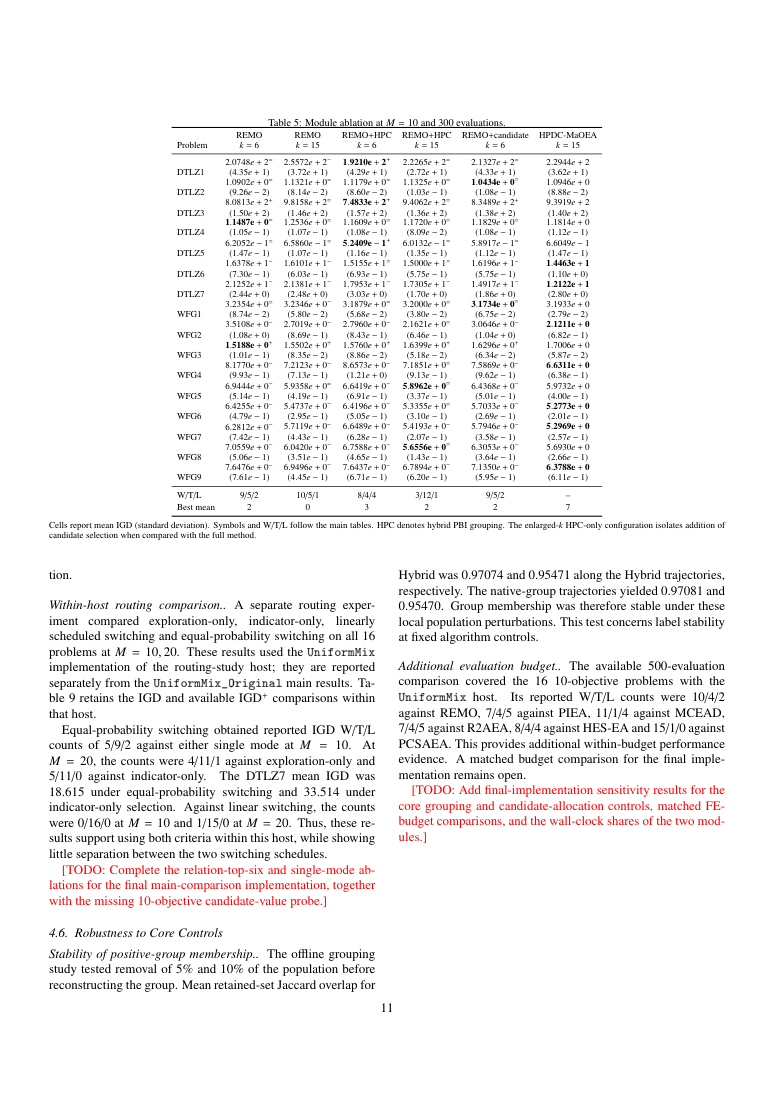
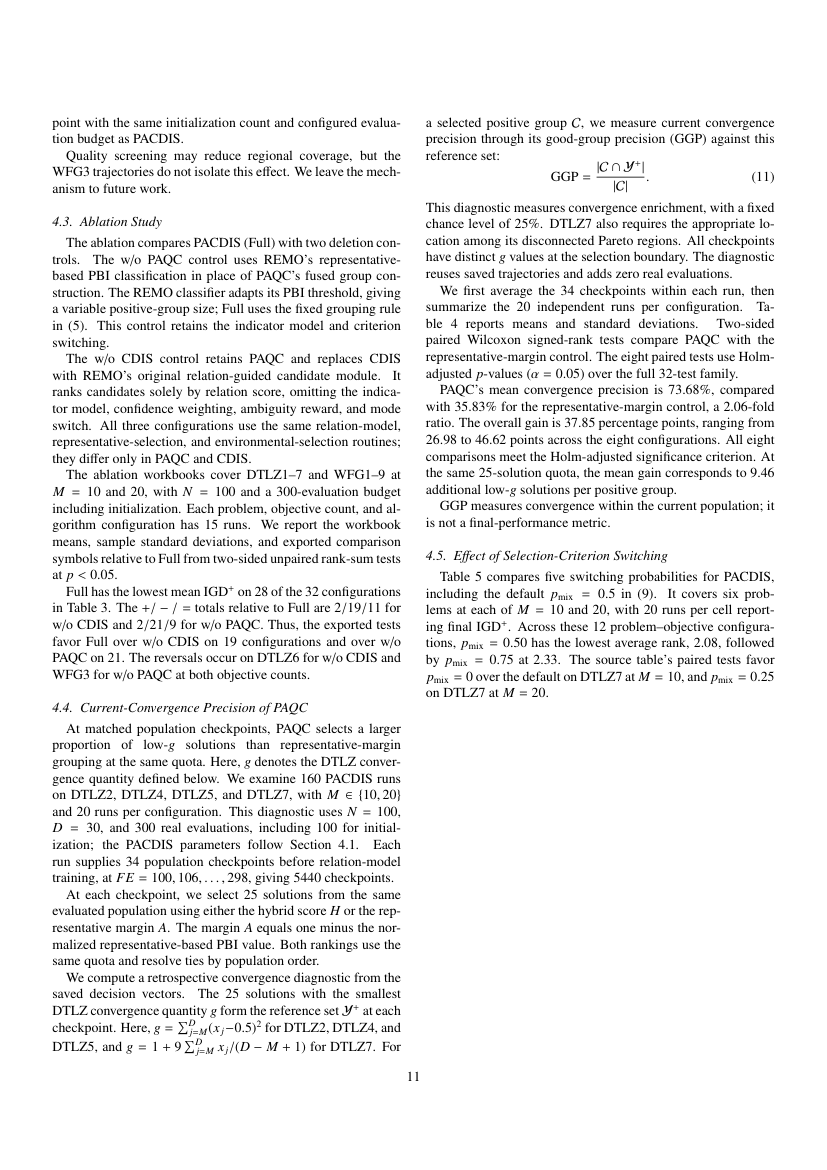
论文排版：结论移至第11页右栏下方，消除12/13页浮动页留白
- HPDC-MaOEA.tex：删除 Conclusion 前的 \clearpage 与 @colht/vsize 恢复 hack；
  结论正文改为紧接 4.5 节排版，填满第 11 页右栏，表 3-5 仍浮动于第 12-13 页顶部
- 同一提交包含工作区已有的第 5 节结论重写（英文 tex + 中文对照稿此前已同步，
  本次一并入库）
- HPDC-MaOEA_中文版.md：仅刷新头部英文 tex SHA-256 指纹（内容无改动）
- 重新编译两遍通过：14 页，0 Overfull，无未定义引用；
  .figure_work/page_10-14.png 为重新渲染的页面预览

Changed region(s): [[0.062, 0.0932, 0.9612, 0.9005]]

diff --git a/论文写作/HPDC-MaOEA.tex b/论文写作/HPDC-MaOEA.tex
@@ -1060,38 +1060,26 @@ $p_{\mathrm{mix}}=0.75$ at 2.33. The source table's paired tests favor
 $p_{\mathrm{mix}}=0$ over the default on DTLZ7 at $M=10$, and
 $p_{\mathrm{mix}}=0.25$ on DTLZ7 at $M=20$.
 
-% Keep the experimental tables before the conclusion and references.
-\clearpage
-% Restore full column height after flushing the double-column table queue.
-\makeatletter
-\global\@colht\textheight
-\global\@colroom\textheight
-\global\vsize\textheight
-\makeatother
+% No \clearpage here: the conclusion flows directly after the pmix text so
+% that page 11 is filled, and the queued double-column tables (Tables 3--5)
+% are placed at the tops of the following pages before the references.
 \section{Conclusion}
 \label{sec:conclusion}
-PACDIS modifies supervision construction and expensive-evaluation allocation
-in relation-based surrogate-assisted optimization. PAQC combines
-representative-based grouping with directional quality information obtained
-from the current nondominated set to construct positive training groups.
-CDIS allocates expensive evaluations through ambiguity-oriented and
-indicator-oriented candidate-selection criteria after relation-quality
-screening. The Full-referenced ablation gives problem-dependent outcomes,
-with reversals on DTLZ6 and WFG3 (Section~\ref{sec:exp:ablation}).
-PAQC and CDIS address complementary interfaces by design.
-The matched group analysis shows that PAQC raises mean current convergence
-precision from 35.83\% to 73.68\% relative to equal-quota
-representative-margin grouping on the four tested DTLZ problems
-(Section~\ref{sec:exp:ggp}).
+We proposed PACDIS, a surrogate-assisted evolutionary algorithm for expensive
+many-objective optimization. PACDIS introduces PBI-assisted quality classification
+(PAQC) and criterion-diversified infill selection (CDIS) into REMO's relation-learning
+framework. PAQC combines representative-based binary labels with continuous PBI
+quality scores derived from the current nondominated solutions to form training
+groups for relation learning. After screening candidates by relation quality,
+CDIS uses ambiguity-oriented or indicator-oriented ranking to select solutions
+for expensive evaluation. Experiments on DTLZ and WFG test suites show that
+PACDIS achieves competitive optimization performance under a limited evaluation
+budget. The ablation results further show that the full algorithm outperforms
+variants that remove PAQC or CDIS on most test configurations.
 
-The WFG3 results limit the scope of these findings: PACDIS lowers its mean
-IGD$^+$ yet finishes with a higher mean than REMO and PIEA in the
-ten-objective comparison. The group analysis measures current convergence precision on
-four DTLZ problems; it does not establish Pareto-front coverage or explain
-the WFG3 loss. Future work should test the coverage and screening
-hypothesis in Section~\ref{sec:exp:comparison} before changing either module.
-Such tests would distinguish losses during candidate screening from
-insufficient coverage in the candidate pool itself.
+PACDIS still has room for improvement on some test problems. Future work will
+examine how candidate generation and screening affect Pareto front coverage and
+explore infill selection strategies that adapt to changes in the population.
 
 
 \begin{thebibliography}{99}

diff --git a/论文写作/HPDC-MaOEA_中文版.md b/论文写作/HPDC-MaOEA_中文版.md
@@ -6,7 +6,7 @@
 
 单位：某大学某系；地址：某街，某市，某省，某国；邮编：000000。
 
[2 lines of base64/hex data omitted]
 >
 > 表格数值与统计符号保留原文，Markdown 用加粗标出原表的灰色最优单元格。参考文献保留原始英文著录，便于检索。作者与单位占位保留。
 
@@ -555,9 +555,9 @@ IGD$^+$ 越小越好；加粗对应原表阴影，表示各行最优均值或最
 
 ## 5 结论
 
-PACDIS 修改基于关系的代理辅助优化中的监督构造与昂贵评价分配。PAQC 将基于代表解的分组与来自当前非支配集的方向性质量信息结合，以构造正训练组。CDIS 在关系质量筛选之后，通过面向模糊度和面向指标的候选解选择准则分配昂贵评价。以 Full 为参照的消融结果随问题变化，DTLZ6 和 WFG3 上出现相反结果（第 4.3 节）。PAQC 与 CDIS 在设计上处理互补接口。在四个测试的 DTLZ 问题上，匹配分组分析表明，相对于等配额代表解裕量分组，PAQC 将平均当前收敛精确率从 35.83% 提高到 73.68%（第 4.4 节）。
+本文提出代理辅助进化算法 PACDIS，用于求解昂贵高维多目标优化问题。该算法在 REMO 的关系学习框架中引入 PBI 辅助质量分类（PAQC）与准则多样化填充选择（CDIS）。PAQC 将基于代表解的二值标签与基于当前非支配解的连续 PBI 质量评分相结合，构建用于关系学习的训练分组。CDIS 在关系质量筛选后，采用模糊导向或指标导向策略选择真实评估点。在 DTLZ 与 WFG 测试集上的实验表明，PACDIS 在有限评估预算下表现出具有竞争力的优化性能。消融实验进一步表明，完整算法在多数测试配置上优于移除单个模块的变体。
 
-WFG3 结果限定了这些发现的适用范围：在十目标比较中，PACDIS 的平均 IGD$^+$ 虽然下降，但终点均值仍高于 REMO 和 PIEA。分组分析在四个 DTLZ 问题上衡量当前收敛精确率，没有证实 Pareto 前沿覆盖，也未解释 WFG3 失利。后续工作应在修改任一模块之前，检验第 4.2 节提出的覆盖与筛选假设。这类检验将把候选解筛选过程中的损失与候选池本身覆盖不足区分开。
+PACDIS 在部分测试问题上的优化效果仍有待改善。未来将研究候选集生成与筛选对帕累托前沿覆盖的影响，并探索能够适应不同种群状态的填充选择策略。
 
 ## 参考文献
 
